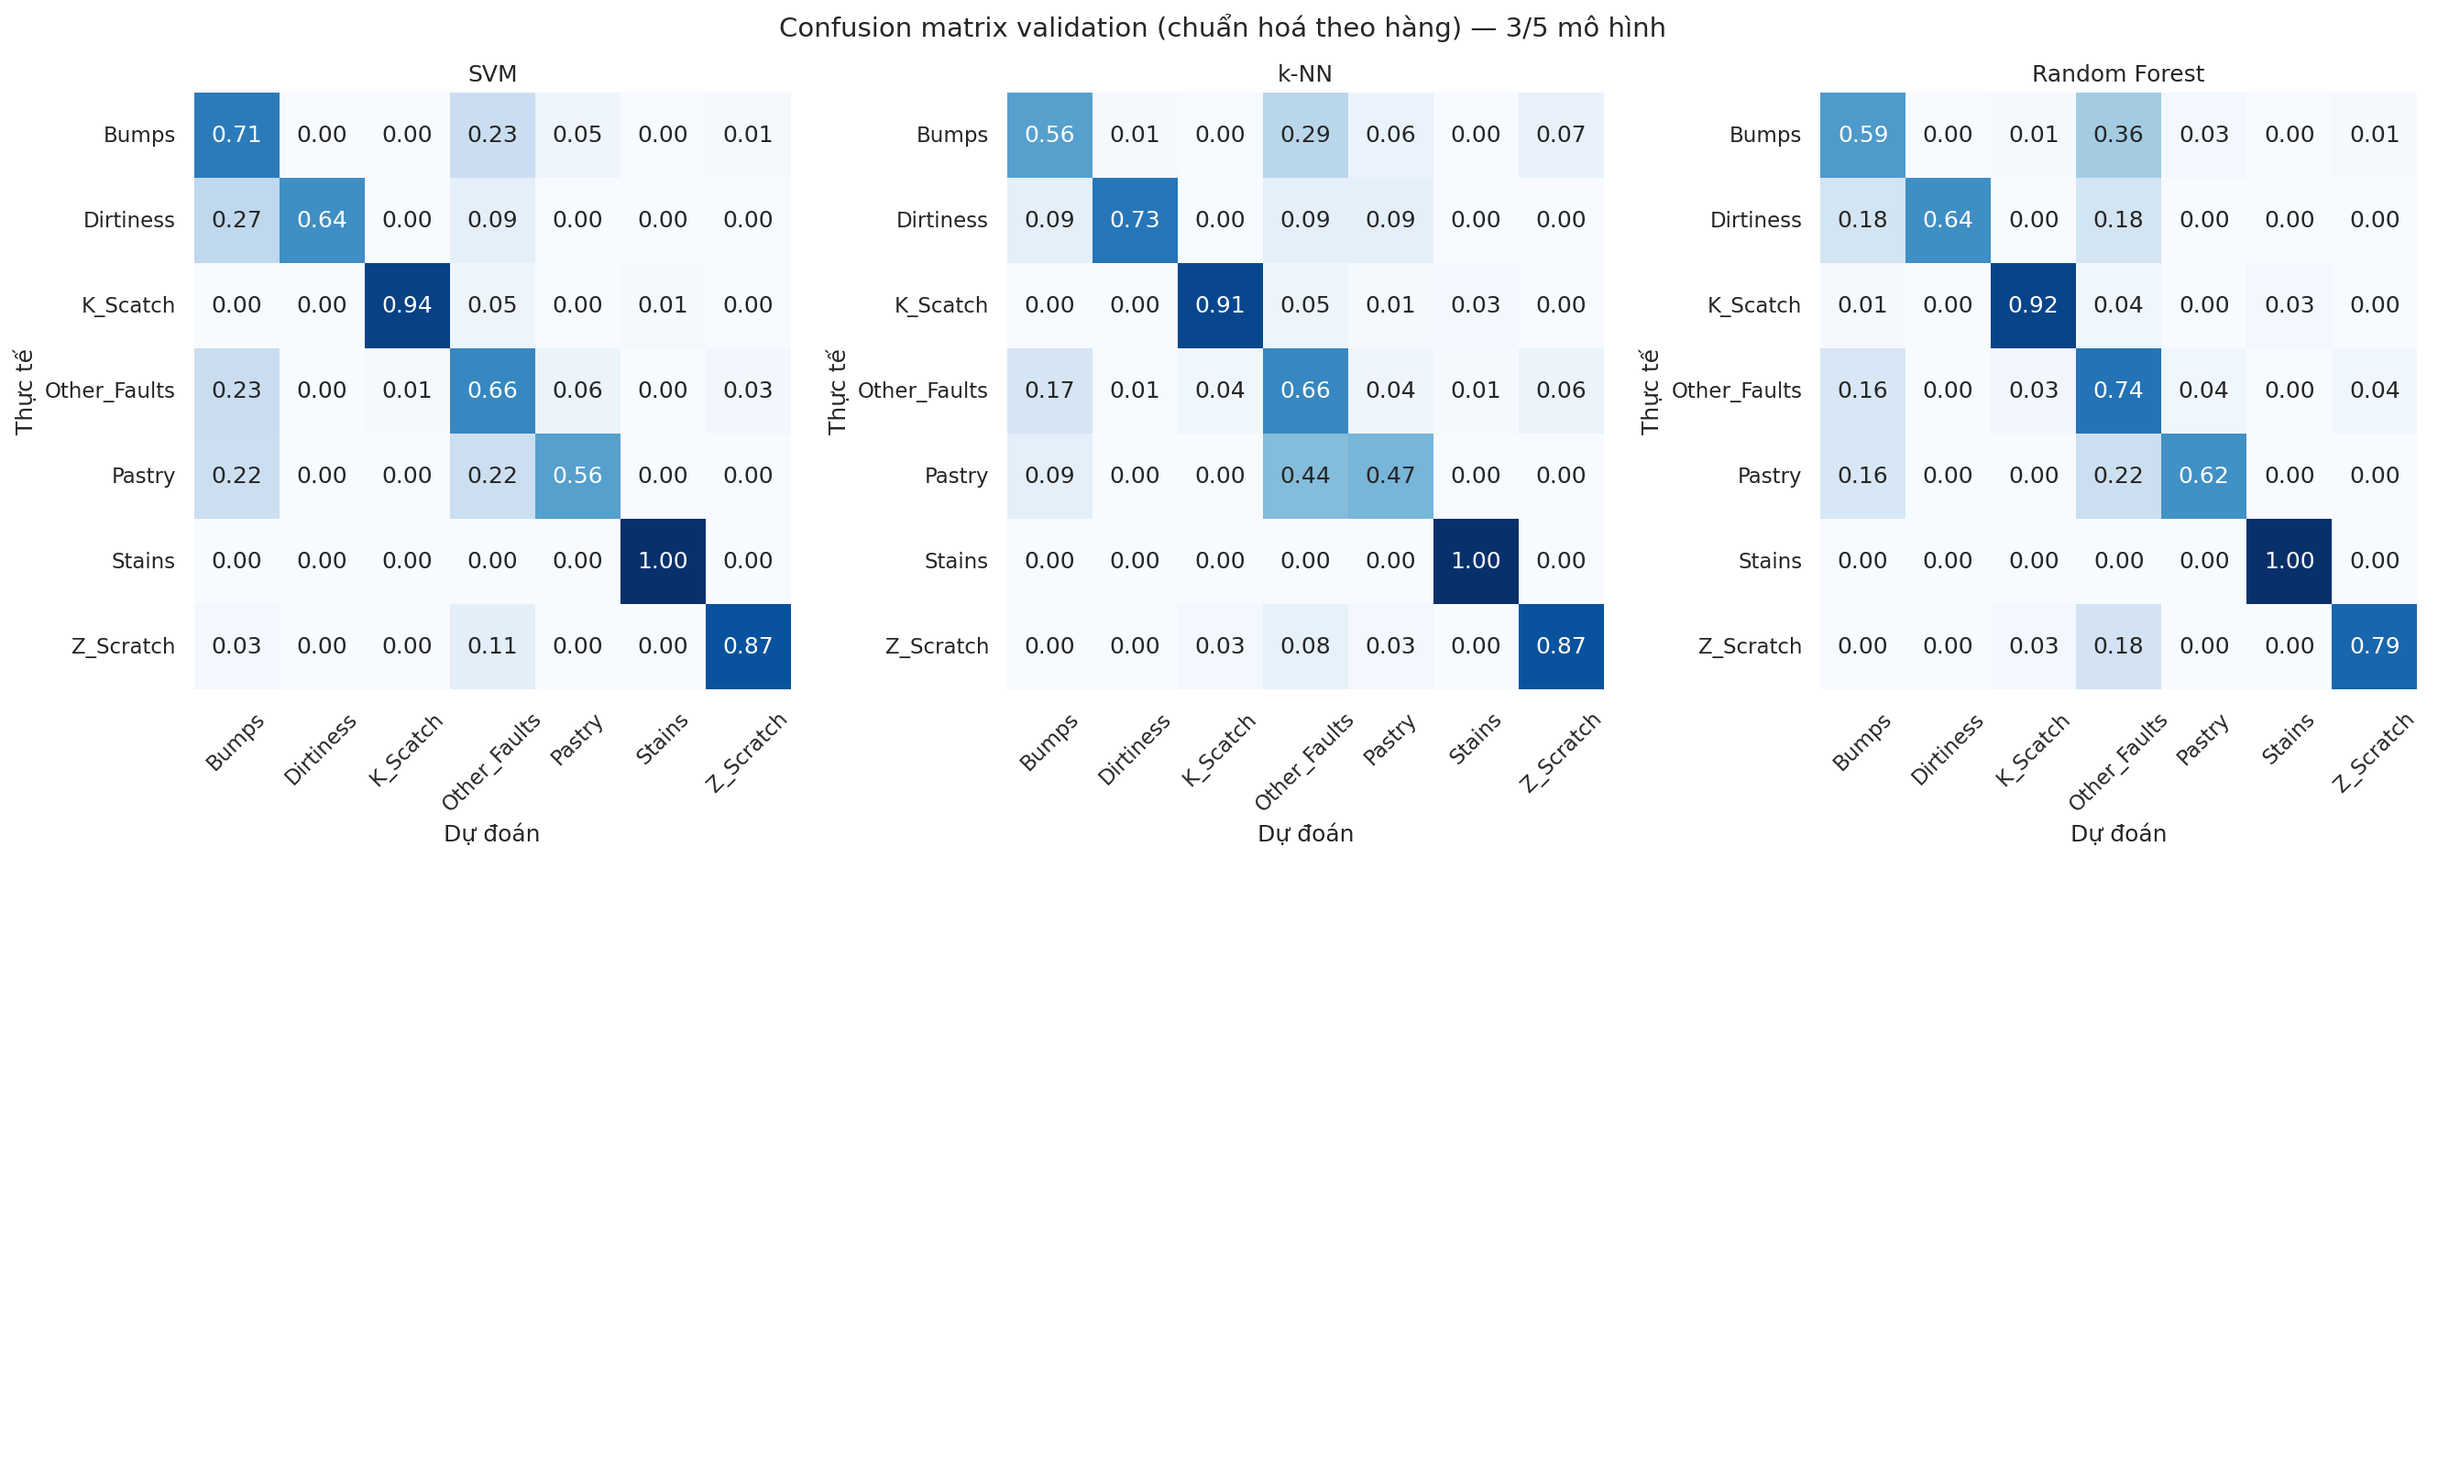
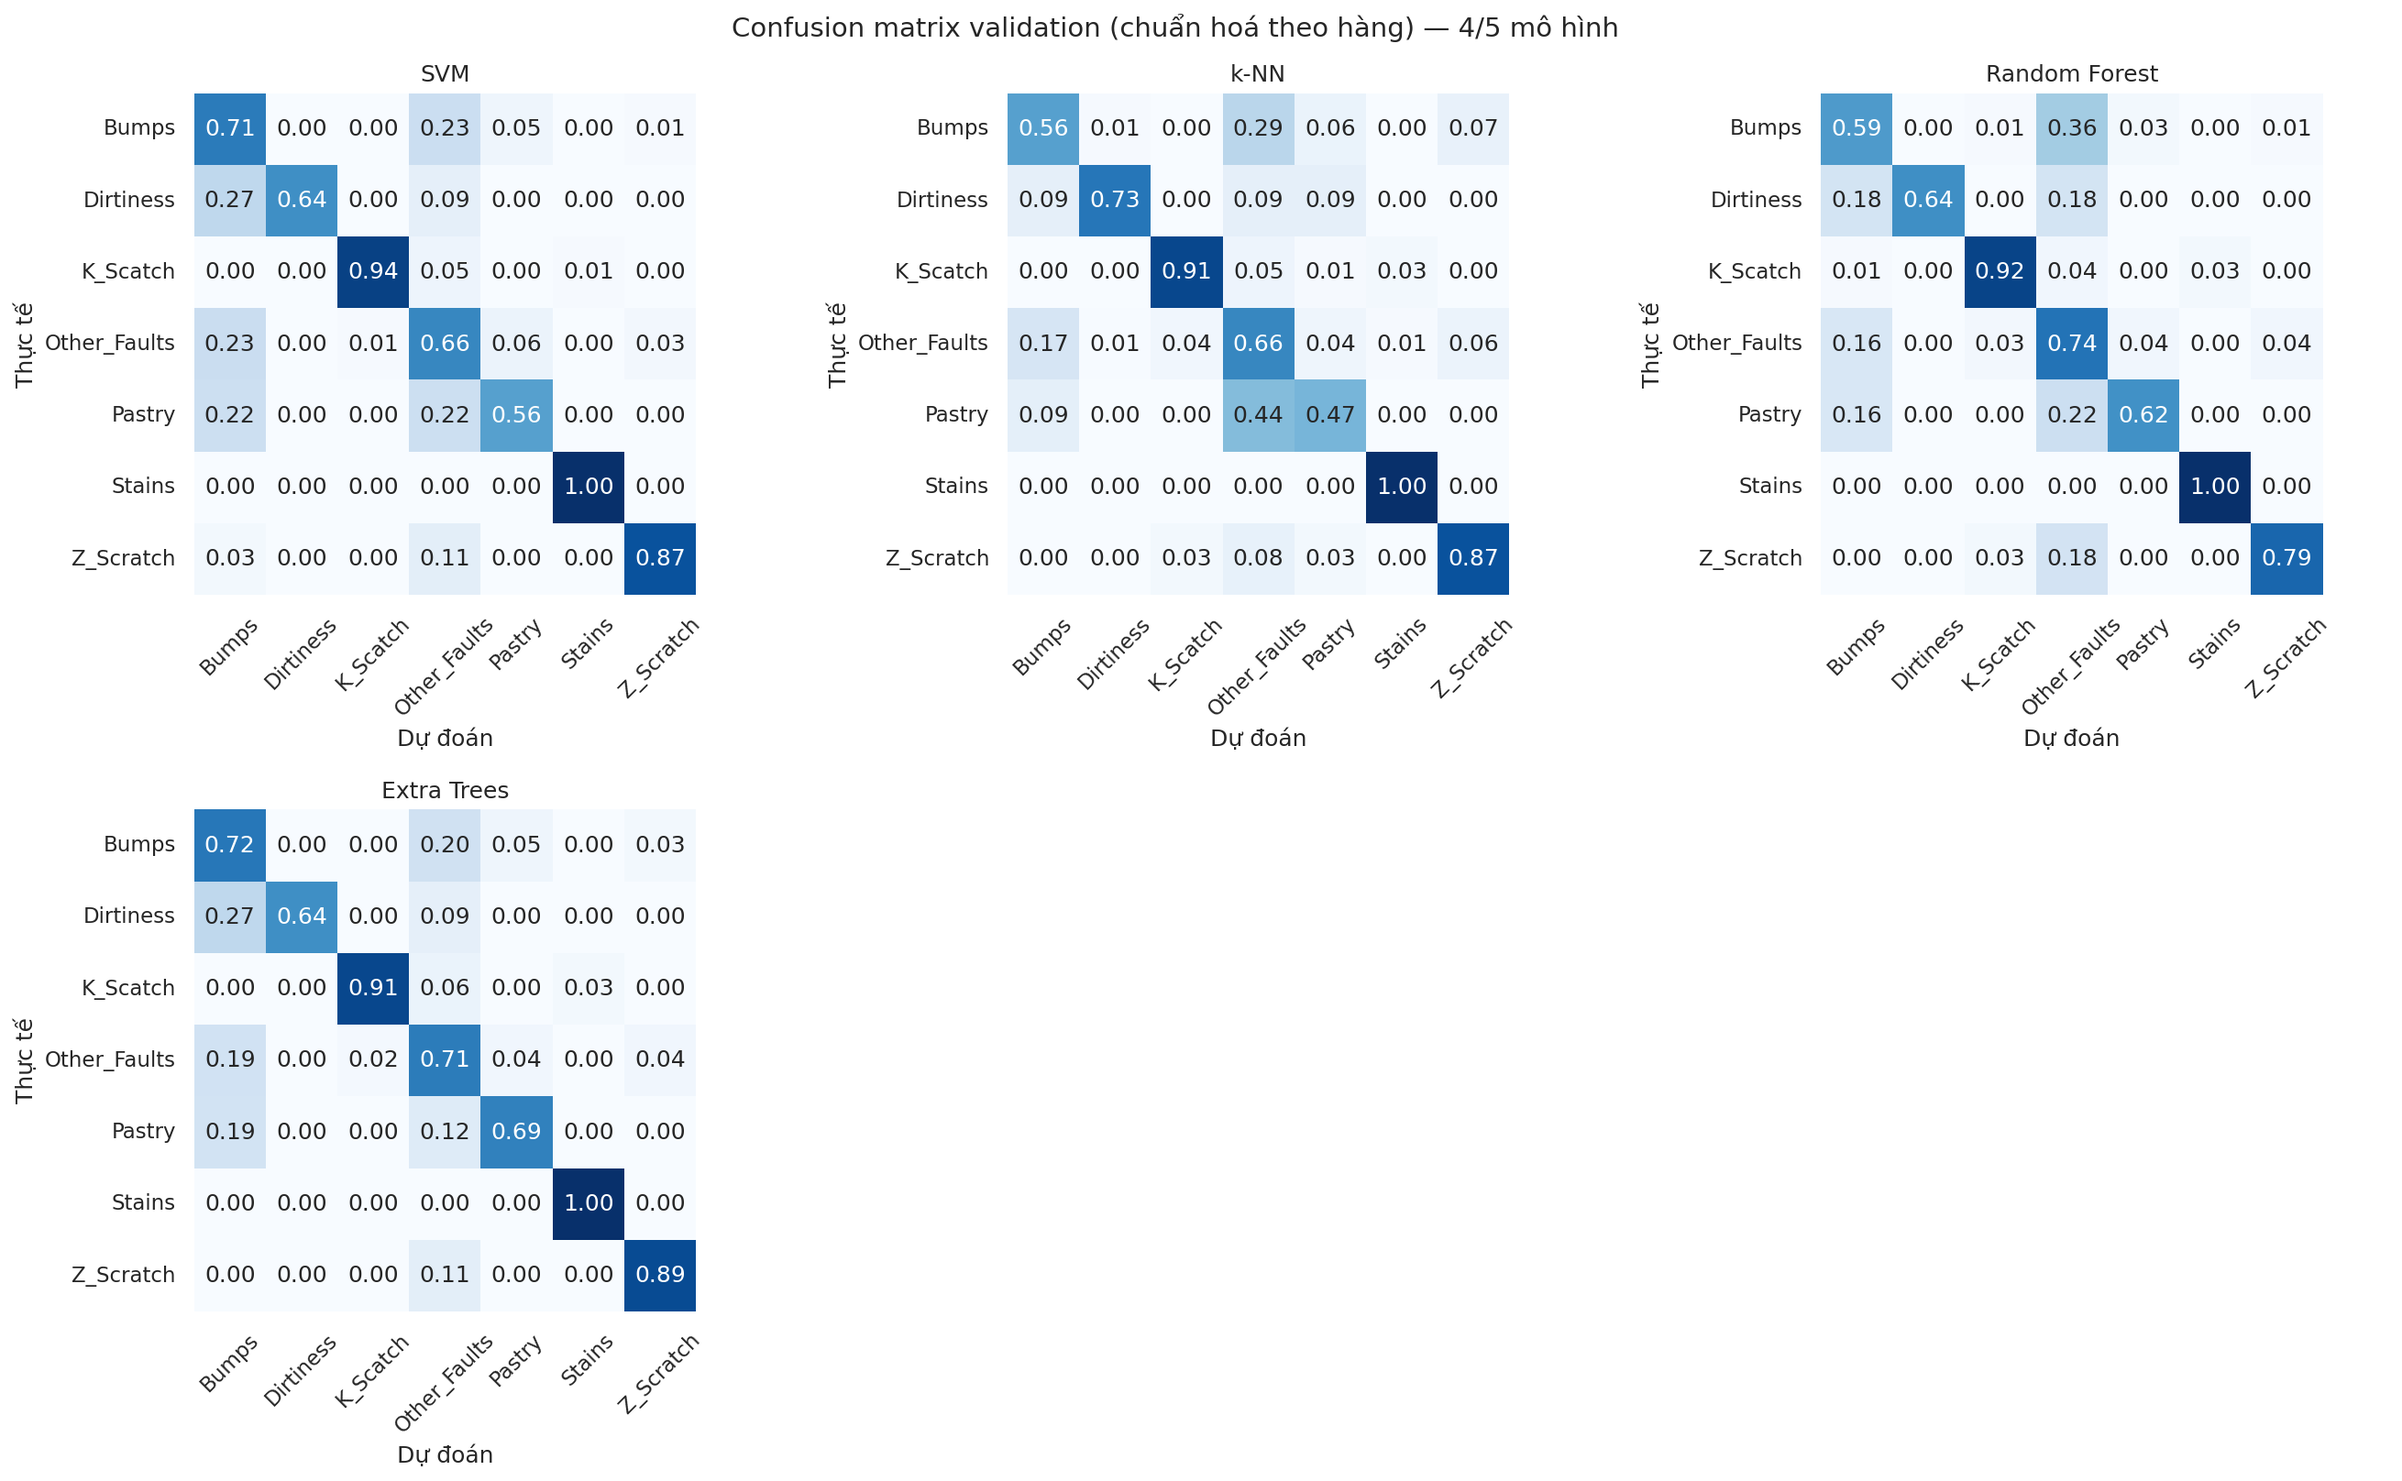
train: [4/5] Extra Trees — validation macro-F1=0.8018

diff --git a/reports/results.md b/reports/results.md
@@ -4,6 +4,7 @@ Mô hình được chọn theo validation macro-F1; test chỉ đánh giá mô h
 
 | model         |   train_f1_macro |   validation_f1_macro |   f1_macro_gap | test_accuracy   | test_balanced_accuracy   | test_f1_macro   | test_f1_weighted   |
 |:--------------|-----------------:|----------------------:|---------------:|:----------------|:-------------------------|:----------------|:-------------------|
+| Extra Trees   |           0.9773 |                0.8018 |         0.1755 |                 |                          |                 |                    |
 | SVM           |           0.8583 |                0.7826 |         0.0756 |                 |                          |                 |                    |
 | Random Forest |           0.9885 |                0.7763 |         0.2122 |                 |                          |                 |                    |
 | k-NN          |           0.813  |                0.7264 |         0.0866 |                 |                          |                 |                    |
